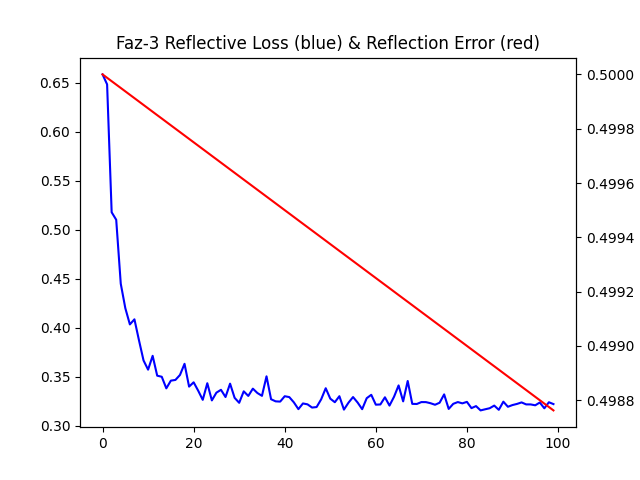
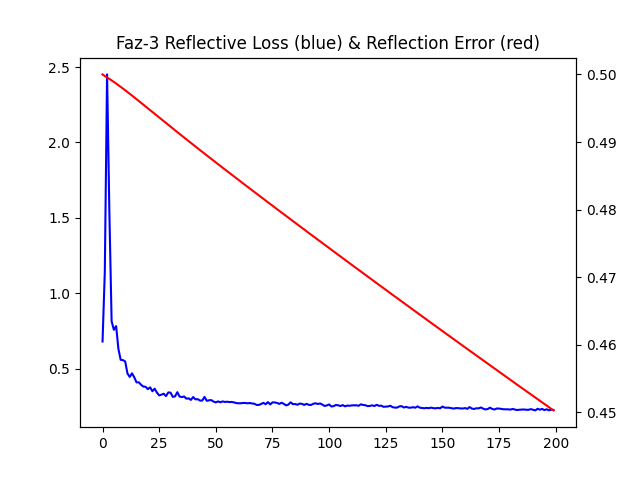
feat(datasets): add pile and wikipedia dataset support in download_data feat(evaluation): add gsm8k evaluation utility fix(training): use nccl backend when cuda is available docs(experiments): update experiment results and images

diff --git a/src/utils.py b/src/utils.py
@@ -13,6 +13,7 @@ import json
 from scipy.special import softmax
 import time
 import os
+import re
 
 
 def load_data(file_path: str) -> Dict[str, Any]:
@@ -268,3 +269,49 @@ def build_tool_augmented_sft_dataset(num_samples: int, agent, tools) -> List[Dic
         )
         samples.append({"input": task, "target": target})
     return samples
+
+
+def _extract_number(text: str) -> int | None:
+    nums = re.findall(r"[-+]?\d+", text)
+    if not nums:
+        return None
+    try:
+        return int(nums[-1])
+    except Exception:
+        return None
+
+
+def _parse_gsm8k_answer(ans: str) -> int | None:
+    m = re.findall(r"####\s*([-+]?\d+)", ans)
+    if m:
+        try:
+            return int(m[-1])
+        except Exception:
+            return None
+    return _extract_number(ans)
+
+
+def evaluate_gsm8k(model, split: str = "test", sample_size: int = 100, max_new_bytes: int = 128) -> Dict[str, Any]:
+    from datasets import load_dataset
+    ds = load_dataset("gsm8k", "main", split=split)
+    import random
+    idxs = list(range(len(ds)))
+    random.shuffle(idxs)
+    idxs = idxs[:min(sample_size, len(ds))]
+    correct = 0
+    results = []
+    for i in idxs:
+        q = ds[i]["question"].strip()
+        gt = _parse_gsm8k_answer(ds[i]["answer"])  # type: ignore
+        prompt = q + "\nStep 1: "
+        gen = model.generate_text(prompt, max_new_bytes=max_new_bytes)
+        pred = None
+        if "Final answer:" in gen:
+            pred = _extract_number(gen.split("Final answer:")[-1])
+        if pred is None:
+            pred = _extract_number(gen)
+        ok = (pred is not None and gt is not None and int(pred) == int(gt))
+        correct += int(bool(ok))
+        results.append({"question": q, "pred": pred, "gt": gt, "ok": bool(ok)})
+    acc = correct / max(len(idxs), 1)
+    return {"split": split, "sample_size": len(idxs), "accuracy": acc, "results": results}

diff --git a/download_data.py b/download_data.py
@@ -67,6 +67,7 @@ def main():
     parser.add_argument("--build_index", type=str, default="true")
     parser.add_argument("--chunk_size", type=int, default=1000)
     parser.add_argument("--index_dir", type=str, default="data/index")
+    parser.add_argument("--embed_dim", type=int, default=512)
     args = parser.parse_args()
 
     os.makedirs("data/raw", exist_ok=True)
@@ -84,6 +85,16 @@ def main():
         out_txt = f"data/raw/c4_{args.split}.txt" if full else "data/raw/c4_sample.txt"
         write_text(out_txt, ds, "text")
         src_path = out_txt
+    elif ds_name == "pile":
+        ds = load_dataset("EleutherAI/pile", split=f"{args.split}[:{pct}%]")
+        out_txt = f"data/raw/pile_{args.split}.txt" if full else "data/raw/pile_sample.txt"
+        write_text(out_txt, ds, "text")
+        src_path = out_txt
+    elif ds_name == "wikipedia":
+        ds = load_dataset("wikipedia", "20220301.en", split=f"{args.split}[:{pct}%]")
+        out_txt = f"data/raw/wikipedia_{args.split}.txt" if full else "data/raw/wikipedia_sample.txt"
+        write_text(out_txt, ds, "text")
+        src_path = out_txt
     else:
         raise SystemExit(1)
 
@@ -91,8 +102,8 @@ def main():
         txt = read_text(src_path)
         chunks = chunk_text(txt, args.chunk_size)
         device = "cuda" if torch.cuda.is_available() else "cpu"
-        index, Xn = build_faiss_index(chunks, embed_dim=512, device=device)
-        save_index(index, args.index_dir, chunks, embed_dim=512)
+        index, Xn = build_faiss_index(chunks, embed_dim=args.embed_dim, device=device)
+        save_index(index, args.index_dir, chunks, embed_dim=args.embed_dim)
 
 if __name__ == "__main__":
     main()

diff --git a/src/pdclm.py b/src/pdclm.py
@@ -125,7 +125,7 @@ def instruction_sft_train(model: PDCLM, num_samples: int = 1000, epochs: int = 1
     world = int(os.environ.get("WORLD_SIZE", "1"))
     ddp = world > 1
     if ddp and not dist.is_initialized():
-        dist.init_process_group(backend="gloo")
+        dist.init_process_group(backend=("nccl" if torch.cuda.is_available() else "gloo"))
     if rank == 0:
         wandb.init(project="pdclm-sft")
     optimizer = torch.optim.AdamW(model.parameters(), lr=lr, weight_decay=1e-4)
@@ -198,7 +198,7 @@ def ppo_train(model: PDCLM, epochs: int = 1, tasks_per_epoch: int = 10, lr: floa
     world = int(os.environ.get("WORLD_SIZE", "1"))
     ddp = world > 1
     if ddp and not dist.is_initialized():
-        dist.init_process_group(backend="gloo")
+        dist.init_process_group(backend=("nccl" if torch.cuda.is_available() else "gloo"))
     if rank == 0:
         wandb.init(project="pdclm-ppo")
     optimizer = torch.optim.AdamW(model.parameters(), lr=lr, weight_decay=1e-4)

diff --git a/faz1_training_fixed.py b/faz1_training_fixed.py
@@ -58,7 +58,7 @@ def main():
     rank = int(os.environ.get('RANK', '0'))
     ddp = world > 1
     if ddp and not dist.is_initialized():
-        dist.init_process_group(backend='gloo')
+        dist.init_process_group(backend=('nccl' if torch.cuda.is_available() else 'gloo'))
     device = torch.device('cuda' if torch.cuda.is_available() else 'cpu')
     print(f"🔧 Device: {device}")
     print(f"🔥 GPU: {torch.cuda.get_device_name() if torch.cuda.is_available() else 'CPU'}")
